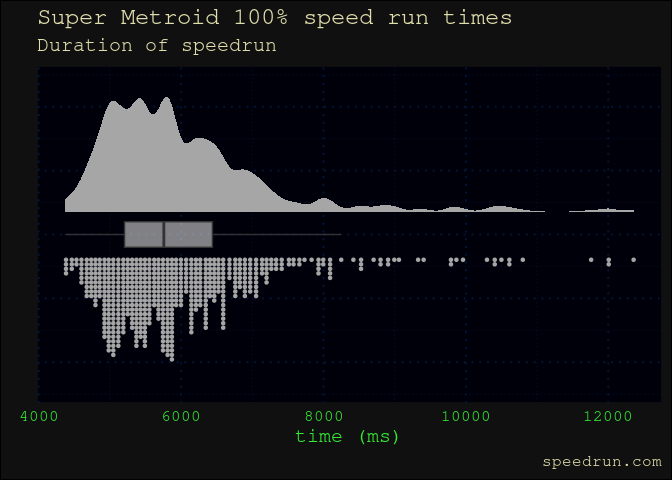
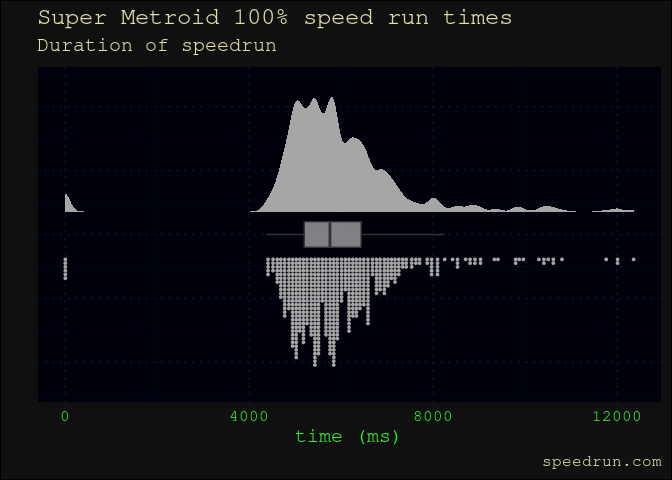
addded what is super metroid?

diff --git a/README.md b/README.md
@@ -1,8 +1,8 @@
 
 - <a href="#supermetroid" id="toc-supermetroid">supermetroid</a>
-- <a href="#at-what-times-do-super-metroid-speed-runs-get-competitive"
-  id="toc-at-what-times-do-super-metroid-speed-runs-get-competitive">At
-  what times do Super Metroid speed runs get competitive?</a>
+- <a href="#at-what-times-do-super-metroid-100-speed-runs-get-competitive"
+  id="toc-at-what-times-do-super-metroid-100-speed-runs-get-competitive">At
+  what times do Super Metroid 100% speed runs get competitive?</a>
 - <a href="#what-is-super-metroid" id="toc-what-is-super-metroid">What is
   Super Metroid?</a>
 - <a href="#analyses-work-in-progress"
@@ -65,17 +65,33 @@
 <!-- badges: start -->
 <!-- badges: end -->
 
-# At what times do Super Metroid speed runs get competitive?
+# At what times do Super Metroid 100% speed runs get competitive?
 
 # What is Super Metroid?
 
-- [thegamehoard](https://thegamehoard.com/2022/04/24/50-years-of-video-games-super-metroid-snes/)
+> While the exploration-focused platformers known as Metroidvanias
+> derive their genre name from two different series, there’s one game
+> they’re all judged by. Super Metroid wasn’t the first Metroidvania,
+> the first Metroid game also had the focus on exploring a large
+> interconnected map and using new abilities to open up new areas, but
+> its polish, visual direction, and atmosphere all created a more
+> involved experience than its predecessors. Released in 1994, Super
+> Metroid’s shadow looms over every game in the genre since… -
+> [thegamehoard
+> 2022](https://thegamehoard.com/2022/04/24/50-years-of-video-games-super-metroid-snes/)
+
+``` r
+# source: wikipedia
+knitr::include_graphics("img/Smetroidbox-wiki.png")
+```
+
+<img src="img/Smetroidbox-wiki.png" width="50%" style="display: block; margin: auto;" />
 
 # Analyses (work in progress)
 
 ## Speed run times from speedrum.com
 
-<img src="man/figures/README-unnamed-chunk-2-1.png" width="100%" />
+<img src="man/figures/README-unnamed-chunk-3-1.png" width="100%" />
 
 # Getting the data
 
@@ -306,7 +322,7 @@ distribution of runs.
 all_run_raincloud(src_run_df)
 ```
 
-<img src="man/figures/README-unnamed-chunk-14-1.png" width="100%" />
+<img src="man/figures/README-unnamed-chunk-15-1.png" width="100%" />
 
 There are some odd values near 0, which suggest that we need to
 investigate if there are unfinished runs logged on speedrun.com.
@@ -342,7 +358,7 @@ src_run_df %>%
   all_run_raincloud()
 ```
 
-<img src="man/figures/README-unnamed-chunk-16-1.png" width="100%" />
+<img src="man/figures/README-unnamed-chunk-17-1.png" width="100%" />
 
 # Getting the data from splitsio
 
